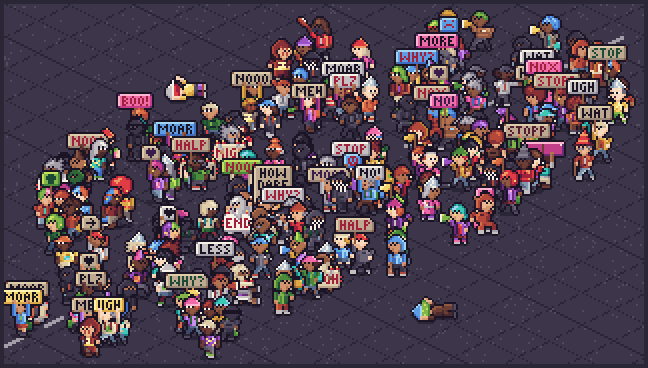
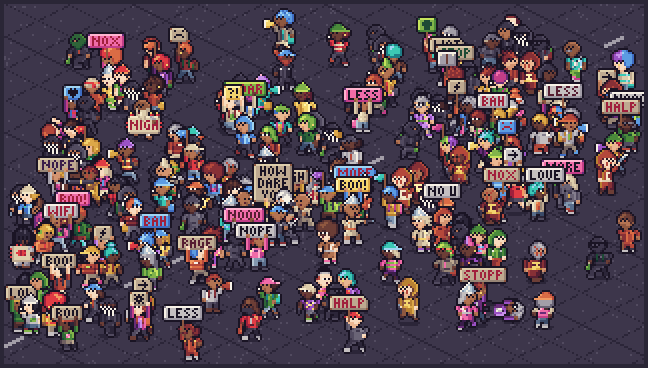
M4b: protester paper-doll variation system — 9 types, full animation sets, city signs, crowd preview
Claude-Session: https://claude.ai/code/session_01XLEeR6X1vTTU7oCKGiz5UC

diff --git a/docs/art/M4b.md b/docs/art/M4b.md
@@ -1,0 +1,140 @@
+# M4b — Protester art & variation system
+
+Every protester is a seeded **paper-doll**: one hand-drawn base (heads, torsos, legs, arms as
+key grids) + overlays (hair, headwear, face gear, back gear, held items, signs) attached to
+per-frame anchors and coloured through semantic `$slot.step` keys resolved to local tone
+ramps (palette swatches only). Builds (slim / regular / stocky, +1 px tall, Breta's tiny
+build) are derived from the same drawings by duplicating / removing grid columns and rows.
+
+Review images: `docs/progress/m4b-crowd.png` (200-person horde, 1× scene shown at 2×),
+`m4b-crowd-3x.png` (3× crop), `m4b-types.png` (each type × 6 variants, 4×),
+`m4b-anims.png` (animation strips, 3×).
+
+## Files (`src/art/protesters/`)
+| File | What |
+|---|---|
+| `index.ts` | `registerProtesters(reg)` (showcase + crowd preview) and public re-exports |
+| `build.ts` | `buildProtesterSheets`, `registerVariant`, `protesterVariantCount`, `protesterSprite`, `ANIMS`, trimming, manifest/events |
+| `variants.ts` | `rollVariant(type, i, {seed, city})` — per-type wardrobes, loadouts, gaits |
+| `anims.ts` | pose tables for every animation (frames, fps, key frames) |
+| `figure.ts` | `renderFigure(look, facing, pose, mirror)` — the compositor (z-order, builds, transforms, FX, shadow) |
+| `rig.ts` | key alphabets, cached part rendering, mirroring, rotate/shear/squash, fast outline |
+| `book.ts` | part-book parser + grid ops (`dupCol`, `dupRow`, `delRow`, `mirrorPart`, `clipAbove`) |
+| `body.grid.ts`, `hair.grid.ts`, `gear.grid.ts`, `items.grid.ts`, `fx.grid.ts` | hand-authored grids |
+| `glyphs.ts`, `sign.ts` | 3×5 sign font + 5×5 symbols, slogan lists per city, sign & sandwich-board builders |
+| `tones.ts` | local 4-step cloth / 3-step skin & hair ramps (no navy / hi-vis / olive) |
+| `crowd.ts`, `lineup.ts` | review images (crowd preview, type lineup) |
+
+## API
+```ts
+import { buildProtesterSheets, protesterSprite, protesterVariantCount } from './art/protesters';
+import { SpriteRegistry } from './art/lib/registry';
+import { buildArt, createArt } from './art/lib/atlas';
+
+const reg = new SpriteRegistry();
+const manifest = buildProtesterSheets(reg, { city: 'paris', seed: runSeed });   // ~1.5 s, pure
+const protArt = buildArt(reg, 2048, createArt());                                // 2 pages
+
+// per crowd member: pick a variant of its type (by loadout for cultists)
+const v = manifest.variants.cultist.filter((x) => x.loadout === 'bazooka')[k % n];
+const { name, flip } = protesterSprite((n) => protArt.has(n), v.prefix, 'walk', 'sw');
+sprite.texture = protArt.anim(name).frames[f];  sprite.scale.x = flip ? -1 : 1;
+```
+- `BuildOptions`: `city` (`'madrid'|'london'|'paris'|'any'`, flavours slogans + city items),
+  `seed`, `variantsPerType` (number or per-type map), `types`, `mirrors` (`'text'` default |
+  `true` | `false`), `group`, `anims`.
+- Rolls depend only on `(seed, type, index, city)` — `v7` is identical whatever the count.
+- `protesterVariantCount(type)` = defaults: student 28, woke 26, mob 26, violent 22, crazy 20,
+  cultist 20, prophet 12, breta 1, paparazzi 8 (163 variants).
+- `manifest.variants[type][i]`: `{ prefix, loadout, gait, idle, anims }`.
+  Loadouts: student `none`; woke `fists|umbrella|megaphone|baguette|sign`; mob
+  `fists|stick|bat|bottle|sign`; violent `shiv+molotov`; crazy `pistol`; cultist
+  `machete|rifle|bazooka` (cycled by index so every set has all three); prophet `explode`;
+  breta `aura`; paparazzi `strap+flash`.
+- `manifest.events[spriteName] = { frame, dx, dy }`: key frame + point relative to the anchor
+  (as drawn, facing screen-right; **negate dx when flipping**). Examples (default seed):
+  bazooka fire frame 2, muzzle ≈ (+11, −12); rifle shot frame 1, muzzle ≈ (+16, −11);
+  pistol shot frame 1, muzzle ≈ (+12, −10); molotov release frame 2 at the hand ≈ (+6, −15);
+  melee impact = frame 2 (swing/bonk), 1 (punch/stab), 3 (paparazzi strap) at the hand;
+  heave release frame 2 ≈ (+7, −14); paparazzi flash frame 0 at the flash ≈ (+9, −15).
+  Values differ slightly per variant (builds) — always read them from the manifest.
+
+## Names
+`prot.<type>.v<n>.<anim>.<facing>` — types: `student woke mob violent crazy cultist prophet
+breta paparazzi`. **Anchor** = ground pixel between the feet (sole row); the blob shadow is
+baked one row below. Frames of one sprite share a size (union-trimmed); sizes ≈ 16–21 × 22–25
+(standing), Breta with her sign 21×36, bodies ≈ 24×16.
+
+| Anim | Facings drawn | Frames | FPS | Loop | Notes |
+|---|---|---|---|---|---|
+| `idle` | se, ne | 4 | 5 | ✓ | per variant: chant / sign wave / cardboard pump / phone filming / vape (puffs) / megaphone / menace (weapon tap) / bottle toss / twitch / preach / finger-wag (Breta) / flash pops / cult chant / pot-banging (Madrid) |
+| `walk` | se, ne | 8 | 10 | ✓ | gaits: `stroll`, `march` (angry fist pump, lean), `twitch` (crazy), `stomp` (Breta), `shuffle` (paparazzi, hunched) — bounce from the leg frames |
+| `run` | se, ne | 6 | 12 | ✓ | lean forward; prophets sprint arms up |
+| `attack` | se, ne | 4–6 | 12 | ✗ | punch(4, impact 1) · swing(5, impact 2: stick/bat/bottle/umbrella/megaphone/baguette/machete) · bonk (sign chop, 5, impact 2) · stab (shiv, 4, impact 1) · pistol (4, shot 1) · rifle (4, shot 1) · bazooka (6, fire 2 with front flash + backblast, smoke 3–4) · strap (paparazzi, 5, impact 3) |
+| `molotov` | se, ne | 6 | 12 | ✗ | very violent: light (flame), wind-up, **release frame 2**, follow-through |
+| `flash` | se, ne | 2 | 12 | ✗ | paparazzi camera flash (big burst, small burst) |
+| `windup` | se, ne | 4 | 12 | ✓ | prophet pre-explosion: shake, outline glows rust/ochre, fuse sparks (explosion = M5) |
+| `climb` | ne (+nw flip) | 4 | 8 | ✓ | back view, hand over hand (woke / mob / violent) |
+| `heave` | se, ne | 4 | 8 | ✗ | grab & throw a rooftop sniper, release frame 2 |
+| `hit` | se, ne | 2 | 12 | ✗ | white flash frame + 1 px knock-back wince |
+| `die` | se, ne | 4 | 10 | ✗ | lethal: recoil → stagger → buckle → falling (45° shear) → **chain into `body`** |
+| `body` | se (+sw flip) | 2 | 10 | ✗ | bounce + settle face-down; hold frame 1 (blood = M5 overlay) |
+| `ko` | se, ne | 6 | 8 | ✗ | dizzy X-eyed stagger → sink → fall backward → **chain into `kobody`** |
+| `kobody` | se (+sw flip) | 2 | 8 | ✗ | bounce + settle face-up with X-eyes (stars/birds = M5) |
+| `door` | se (+sw flip) | 3 | 6 | ✗ | step out of a door, look around, stretch |
+
+Bodies (`body`, `kobody`) are the same for every facing (NE/NW deaths end on them too) and keep
+the variant's colours, so fallen protesters stay unique.
+
+## Mirroring & lettering
+SW / NW are horizontal flips of SE / NE — except **lettering**: signs and sandwich boards
+must stay readable, so for variants carrying text the `.sw` sprites of SE animations are
+re-rendered with the sign unflipped (`mirrors: 'text'`, default). Everything else is flipped
+at runtime (`protesterSprite()` tells you which). `mirrors: true` registers every SW / NW
+copy (used by the gallery showcase), `false` none.
+
+## Atlas cost
+Default build (163 variants, `mirrors: 'text'`): 3 355 sprites, 14 795 frames, ≈ 7.1 M px →
+**2 pages of 2048²** (2048×2039 + 2048×1773). `mirrors: false`: 13 307 frames, 2 pages
+(second ≈ 66 % full). `mirrors: true` would need ~4 pages — don't. Lower `variantsPerType` on
+mobile tiers (cost scales linearly; ~44 k px per variant). Build time ≈ 1.5 s in Node.
+
+## Types — looks & accents (art bible §3.5)
+- **Student** — backpacks/totes, beanies, caps, headphones, glasses; hand-made cardboard or
+  pole signs (misspelt slogans), phones filming, vapes, flags, megaphones; city items
+  (umbrella / baguette / pot & spoon). Stroll or march. No attack.
+- **Violent Woke** — dyed hair (pink, hot pink, blue, purple, green, teal, orange, red; 25 %
+  split-dye), septum rings, earrings, glasses, oversized thrift jackets, puffers, totes,
+  megaphones, umbrellas, pole signs, flags; furious faces; climbs.
+- **Violent Mob** — hoodies & tracksuits (grey / red), caps (forward / back), hoods, traffic
+  cone helmets, bandanas & face masks, stubble; sticks, bats, bottles, sign poles; climbs.
+- **Very Violent** — black bloc (gray-on-ink), balaclavas or hoods, black & white checkered
+  scarves, goggles, crates of bottles / backpacks; shiv + molotov; climbs.
+- **Crazy Mob** — tinfoil hats, Hawaiian shirts, bathrobes, wild hair / comb-overs, beards,
+  garish shoes, shorts; twitchy gait, wide eyes; revolver.
+- **Doomsday Cultists — "The Order of the Final Hour"** (fictional): rounded ochre-red /
+  sackcloth hooded robes with a gold hourglass emblem and hood clasp, ritual face paint;
+  machete / rifle / bazooka. Deliberately no real-world religious or ethnic dress cues.
+- **Prophets** — white robes, wild hair & long beards, sandwich boards (“END”, “END!”,
+  “NIGH”, “SOON”, “BYE”) bristling with comic red dynamite; arms-raised sprint; glowing wind-up.
+- **Breta** — tiny furious climate teen parody: yellow raincoat, braids, leaf pin, scowl, a
+  "HOW / DARE / YOU" sign bigger than she is (her presence marker), finger-wag idle, stomp walk.
+- **Paparazzi** — photographer vests over shirts, backwards caps, shades, camera straps,
+  big lenses, flash pops; hunched shuffle; camera-strap swing.
+
+Parts: 17 hair styles (+4 beards), 13 headwear, 9 face accessories, 15 torso styles + long /
+mid hems + skirts, pants / shorts / skirt+tights / robes, 17 held items, 6 back/front gear
+pieces, 3×5 font with ¡¿ and 14 symbols, ~60 slogans (generic + per city).
+
+## Gallery
+- `protesters`: variant `v0` of every type, all animations, all four facings.
+- `crowd`: `prot.crowd.preview` (320×180, 8 frames, ~200 protesters), `prot.crowd.crop3x`,
+  `prot.crowd.lineup` (tagged `preview`).
+
+## Notes / requests
+- The main registry carries the `crowd` previews (~0.6 M px) — the game atlas should skip
+  sprites tagged `preview` (requested shared change: tag filter in `buildArt`, or move gallery
+  extras to a gallery-only registry).
+- Runtime flips (`scale.x = -1`) mirror around the anchor's left pixel edge; to match the
+  registry's pixel-index mirroring (anchor column stays put) shift flipped sprites by +1 px
+  in x (or use anchor `(x + 1) / w` for flipped sprites).
